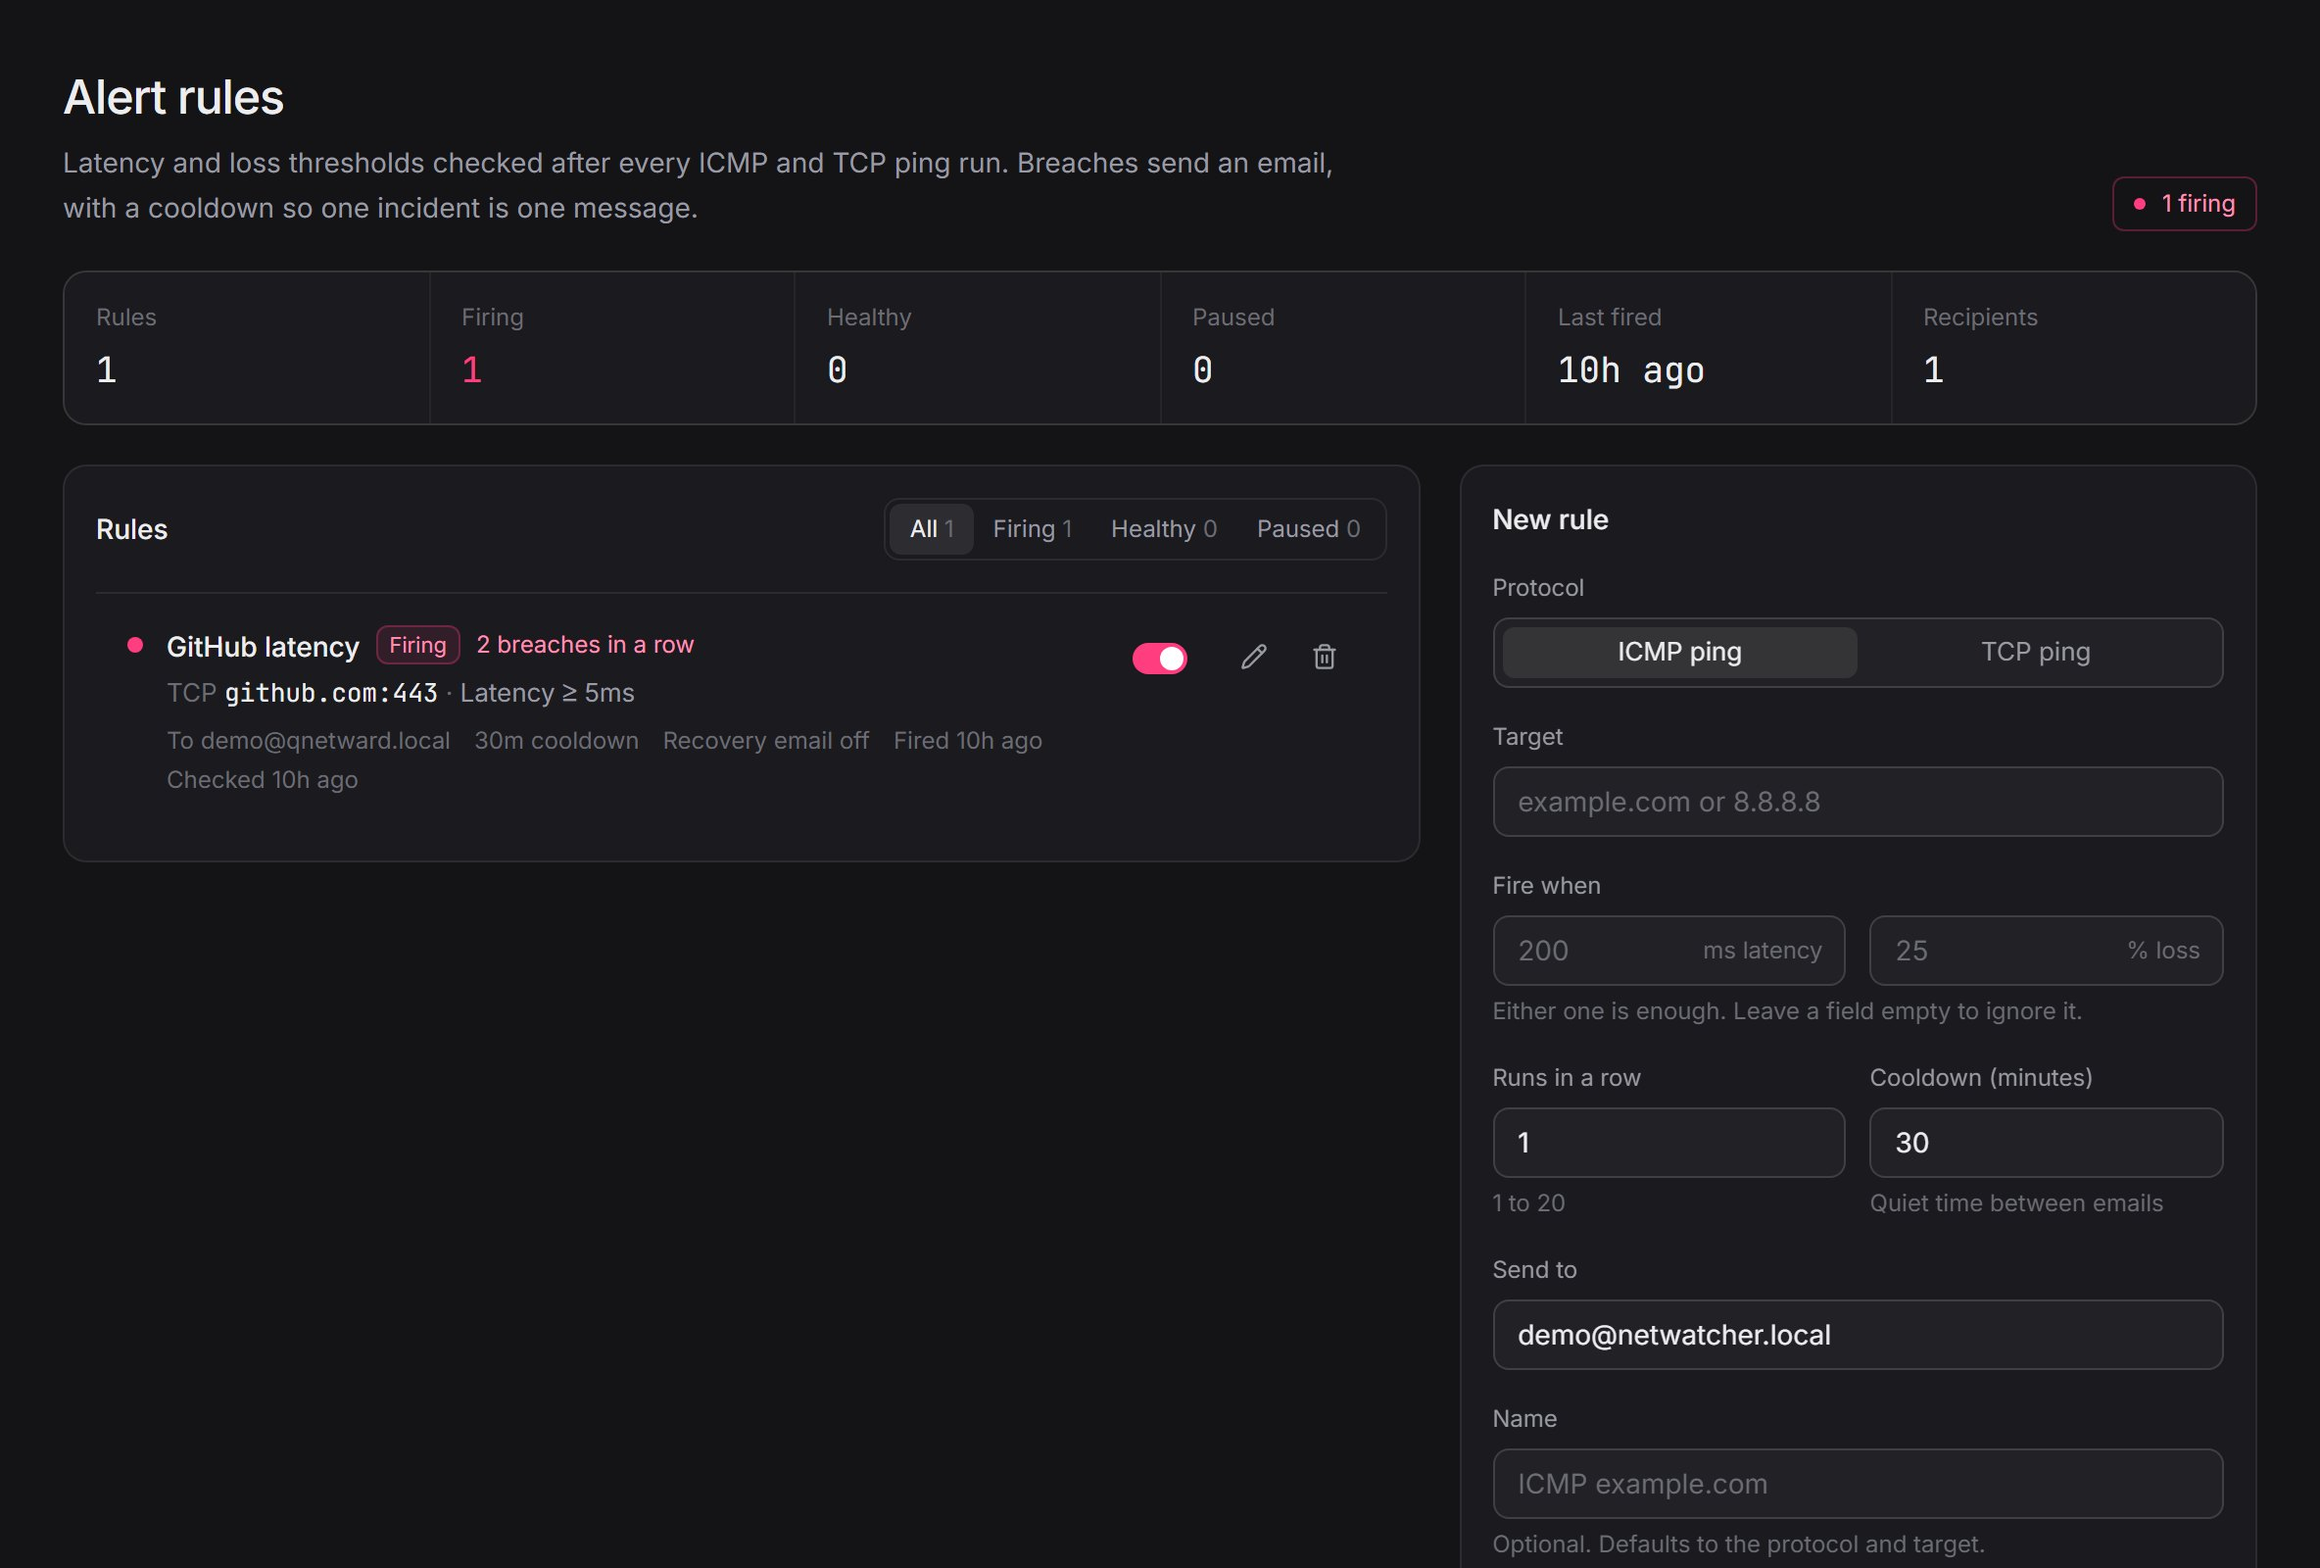
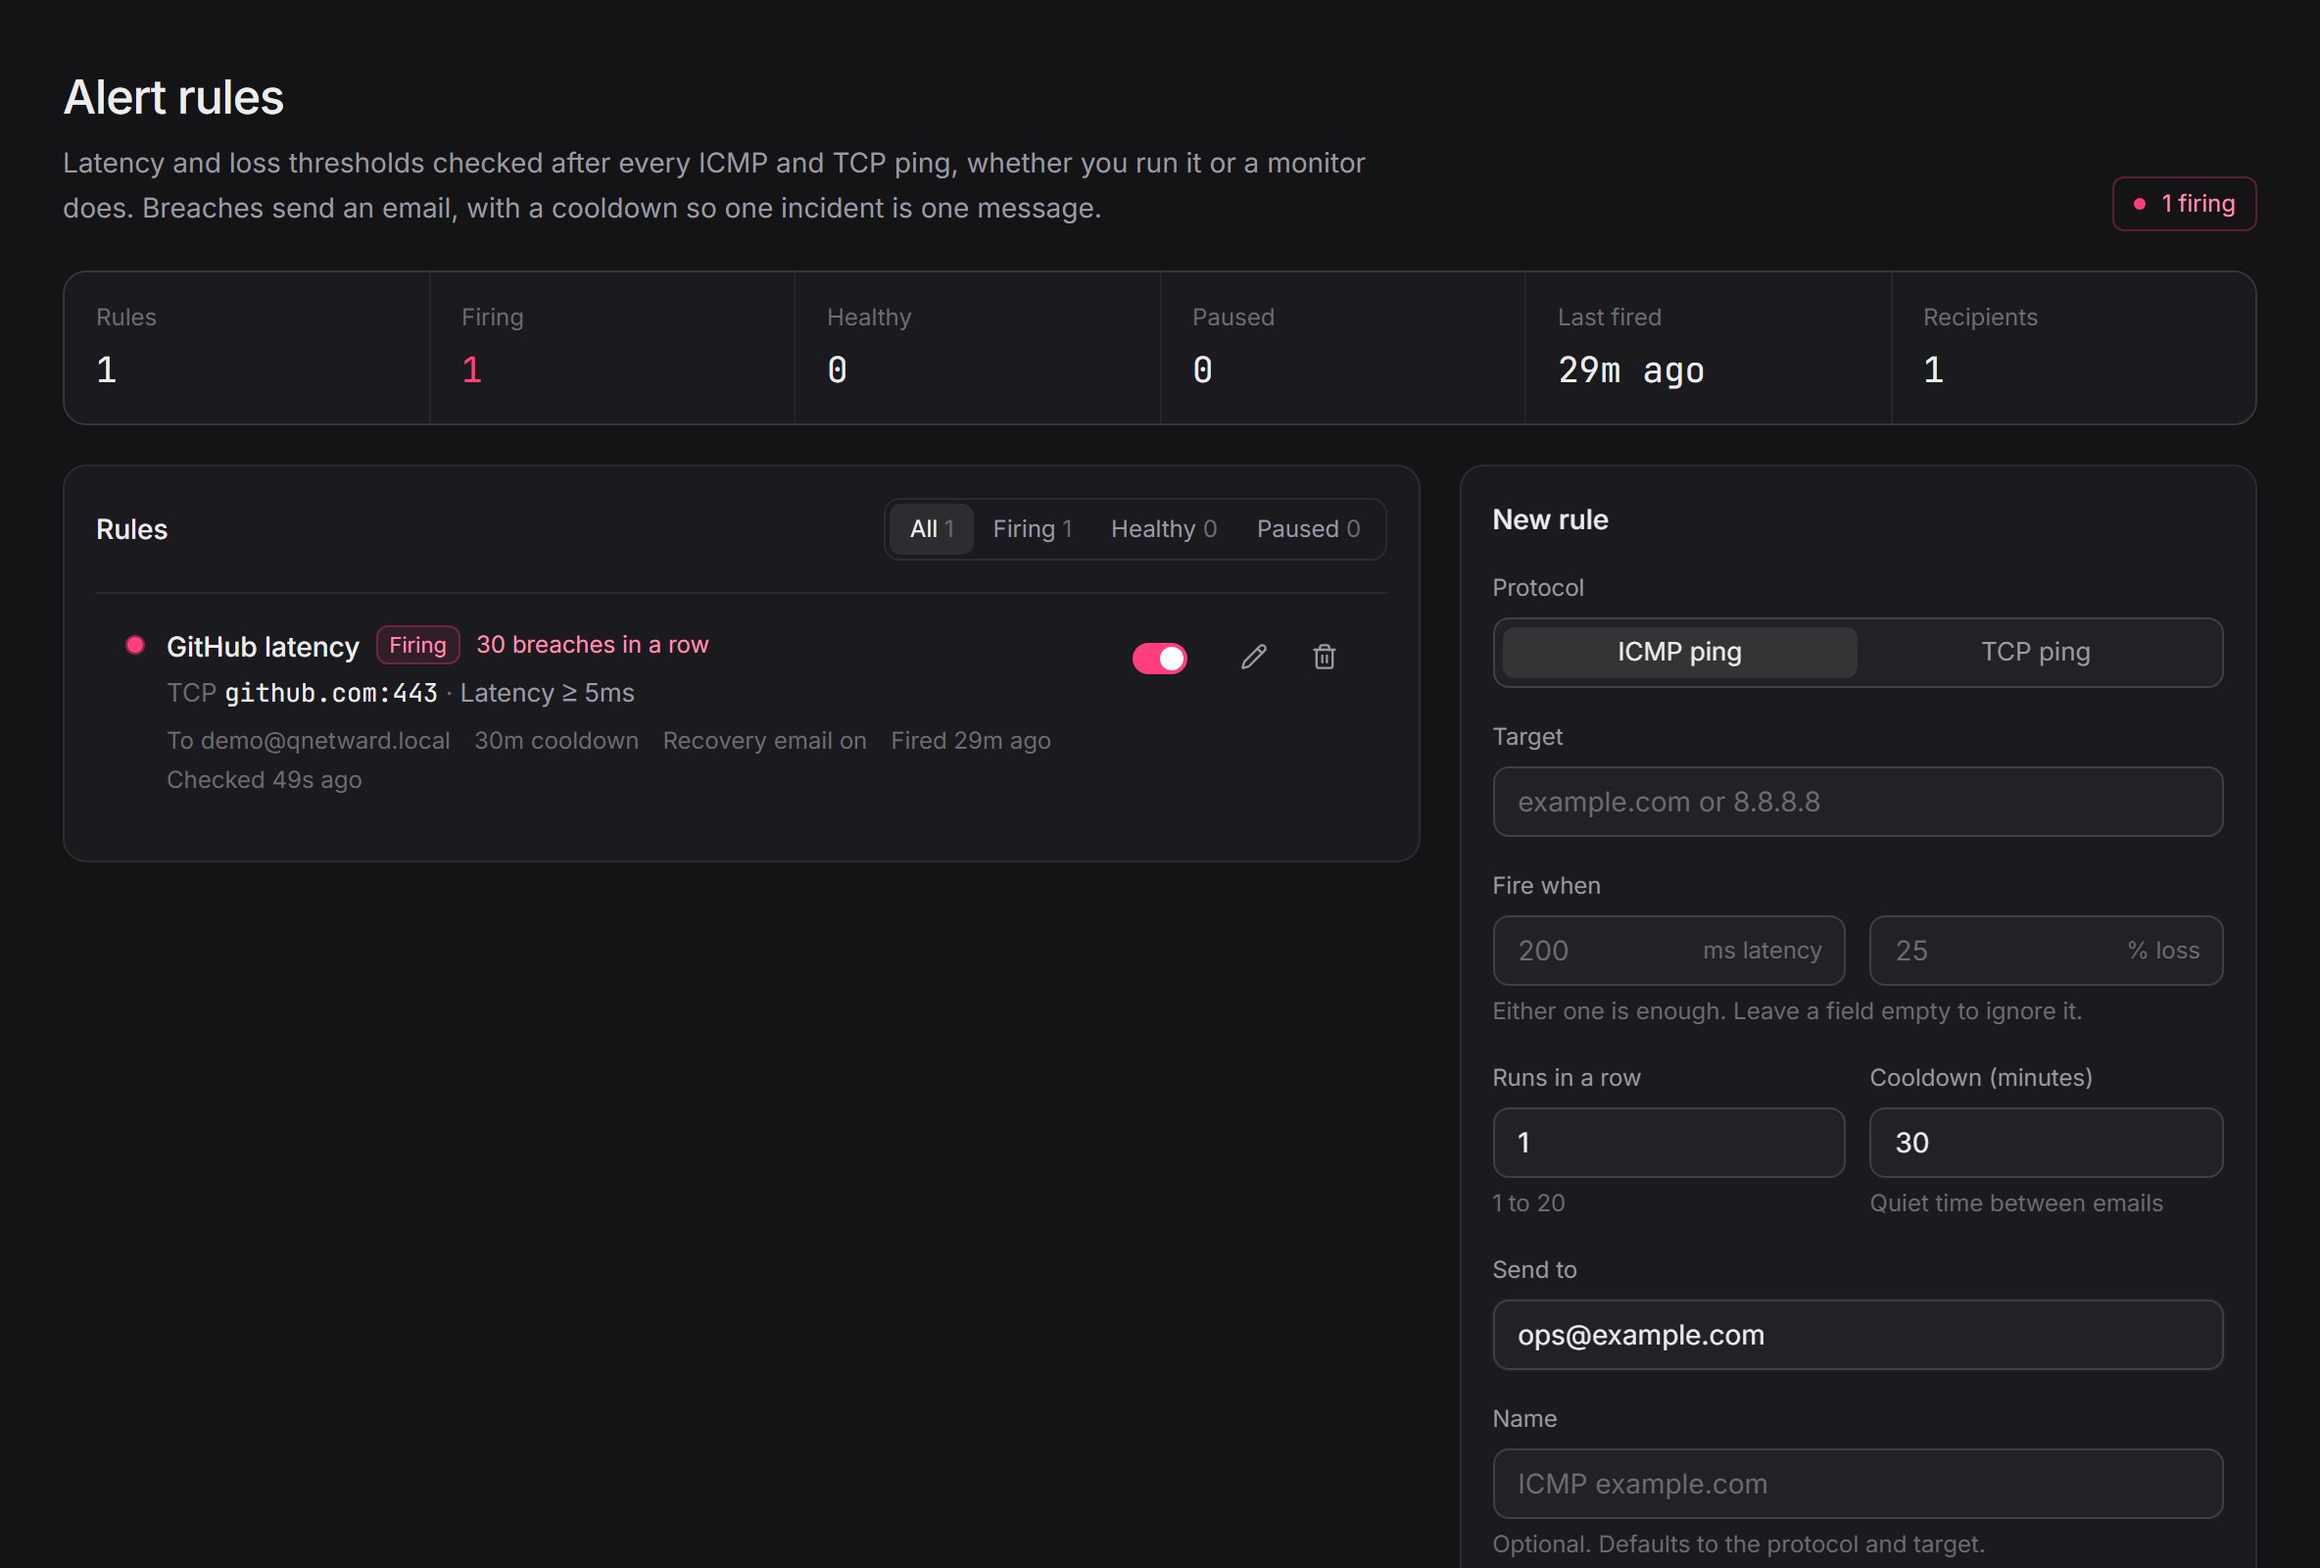
feat(web): bring the landing page up to date with uptime monitors
- announcement bar and hero copy lead with uptime monitors
- Product section gets an Uptime monitors tab with a real console
  screenshot; the Alert rules screenshot is retaken after the recovery
  email fix
- comparison table, third how-it-works step, and the alerting FAQ
  describe monitors and certificate expiry warnings
- alert rules page explains that monitor checks trigger rules too

diff --git a/apps/web/src/features/landing/landing-page.tsx b/apps/web/src/features/landing/landing-page.tsx
@@ -64,9 +64,9 @@ const steps = [
     hint: "tcpping db.internal:5432",
   },
   {
-    title: "Decide what's worth waking up for",
-    body: "Add a latency or loss threshold to any target. When it trips, the people on that workspace get an email.",
-    hint: "loss > 10% for 5 probes",
+    title: "Keep watching what matters",
+    body: "Turn a URL, port, or host into a monitor checked every minute, even with the tab closed. When it goes down, or a certificate is about to expire, you get an email.",
+    hint: "GET https://api.acme.dev/health · every 1m",
   },
 ];
 
@@ -147,8 +147,8 @@ export function LandingPage() {
         <div className="lp-container flex h-10 items-center justify-center gap-3 text-[13px]">
           <span className="lp-badge lp-badge-new">New</span>
           <span className="text-[var(--lp-muted)]">
-            <span className="hidden sm:inline">Team workspaces, invitations, and roles are live</span>
-            <span className="sm:hidden">Team workspaces are live</span>
+            <span className="hidden sm:inline">Uptime monitors for websites, APIs, and servers are live</span>
+            <span className="sm:hidden">Uptime monitors are live</span>
           </span>
           <Link href="/signup" className="text-[var(--lp-text)] underline-offset-4 hover:underline">
             Try it →
@@ -178,7 +178,7 @@ export function LandingPage() {
             <p className="mx-auto mt-5 max-w-3xl text-[18px] leading-relaxed text-[var(--lp-muted)]">
               Qnetward probes, monitors, and protects your infrastructure from one platform.{" "}
               <br className="hidden md:block" />
-              Live diagnostics today, agents, device telemetry, and attack-surface scanning next.
+              Diagnostics and uptime monitors today. Agents and attack-surface scans next.
             </p>
             <div className="mt-7 flex flex-wrap items-center justify-center gap-3">
               <Link href="/signup" className="lp-btn lp-btn-primary h-11 px-6 text-[15px]">

diff --git a/apps/web/src/features/landing/product-showcase.tsx b/apps/web/src/features/landing/product-showcase.tsx
@@ -2,12 +2,13 @@
 
 import Image, { type StaticImageData } from "next/image";
 import { useState } from "react";
-import { Activity, BellRing, Globe, History, Radar } from "lucide-react";
+import { Activity, BellRing, Globe, History, Radar, Radio } from "lucide-react";
 import { cn } from "@/lib/utils";
 import pingShot from "../../../public/landing/tool-ping.jpg";
 import portscanShot from "../../../public/landing/tool-portscan.jpg";
 import dnsShot from "../../../public/landing/tool-dns.jpg";
 import alertsShot from "../../../public/landing/tool-alerts.jpg";
+import monitorsShot from "../../../public/landing/tool-monitors.jpg";
 import historyShot from "../../../public/landing/tool-history.jpg";
 
 type Tool = {
@@ -32,6 +33,15 @@ const tools: Tool[] = [
     alt: "TCP ping to cloudflare.com on port 443, running: 13 of 13 replies, average 122 ms, and a live latency chart.",
   },
   {
+    id: "monitors",
+    name: "Uptime monitors",
+    body: "Websites, APIs, and servers checked every minute to every hour, with the tab closed. The last 30 checks at a glance, and certificate expiry for HTTPS.",
+    path: "monitors",
+    icon: Radio,
+    image: monitorsShot,
+    alt: "Monitors page: five monitors, one down with a 404 and four up, each with a strip of its last checks, 24-hour uptime, and certificate expiry.",
+  },
+  {
     id: "portscan",
     name: "Port scan",
     body: "Up to 4,096 ports per run with 256 parallel connections. A port map, service names, and handshake time for each open port.",
@@ -52,7 +62,7 @@ const tools: Tool[] = [
   {
     id: "alerts",
     name: "Alert rules",
-    body: "Latency and loss thresholds checked after every run. Cooldowns mean one bad minute sends one email, not twenty.",
+    body: "Latency and loss thresholds checked after every ping, yours or a monitor's. Cooldowns mean one bad minute sends one email, not twenty.",
     path: "alerts",
     icon: BellRing,
     image: alertsShot,

diff --git a/apps/web/src/features/alert-rules/alert-rules-workspace.tsx b/apps/web/src/features/alert-rules/alert-rules-workspace.tsx
@@ -505,7 +505,7 @@ export function AlertRulesWorkspace() {
     <div className="grid grid-cols-1 gap-5 [&>*]:min-w-0">
       <PageHeader
         title="Alert rules"
-        description="Latency and loss thresholds checked after every ICMP and TCP ping run. Breaches send an email, with a cooldown so one incident is one message."
+        description="Latency and loss thresholds checked after every ICMP and TCP ping, whether you run it or a monitor does. Breaches send an email, with a cooldown so one incident is one message."
         status={
           rules.length ? (
             <RunStatus tone={counts.firing ? "error" : "live"} label={counts.firing ? `${counts.firing} firing` : "All clear"} />
@@ -577,7 +577,7 @@ export function AlertRulesWorkspace() {
             <div className="mx-4 mb-4 flex flex-col items-center rounded-lg border border-dashed border-[var(--lp-border)] px-6 py-12 text-center">
               <BellRing className="h-5 w-5 text-[var(--lp-subtle)]" />
               <p className="mt-3 text-[13px] text-[var(--lp-muted)]">No alert rules yet</p>
-              <p className="mt-1 max-w-sm text-[12px] text-[var(--lp-subtle)]">Create one on the right. It is checked after every ping or TCP ping run against the same target.</p>
+              <p className="mt-1 max-w-sm text-[12px] text-[var(--lp-subtle)]">Create one on the right. It is checked after every ping or TCP ping against the same target, including scheduled monitor checks.</p>
             </div>
           ) : visibleRules.length === 0 ? (
             <p className="px-4 pb-4 text-[13px] text-[var(--lp-subtle)]">No {filter} rules.</p>

diff --git a/apps/web/src/features/landing/tool-comparison.tsx b/apps/web/src/features/landing/tool-comparison.tsx
@@ -2,7 +2,7 @@ const rows = [
   { before: "ping and mtr in a terminal", after: "Live ICMP and TCP ping with loss streaks and jitter" },
   { before: "nmap on someone's laptop", after: "Port scans saved to history, visible to the team" },
   { before: "dig, nslookup, and a DNS website", after: "DNS inspector with DNSSEC and reverse lookups" },
-  { before: "A separate uptime checker", after: "Alert rules on latency and loss, with history" },
+  { before: "A separate uptime checker", after: "HTTP(S), TCP, and ping monitors with certificate expiry warnings" },
   { before: "A spreadsheet of client sites", after: "One workspace per client, with roles" },
 ];
 

diff --git a/apps/web/src/features/landing/faq.tsx b/apps/web/src/features/landing/faq.tsx
@@ -21,7 +21,7 @@ const items = [
   },
   {
     q: "How do I get alerted?",
-    a: "Set latency and packet-loss thresholds per target and get an email when a rule fires. Slack, Telegram, Discord, and webhooks are next.",
+    a: "Add a monitor and you get an email when it goes down, when it comes back, and two weeks before an HTTPS certificate expires. Alert rules add latency and loss thresholds on top. Slack, Telegram, Discord, and webhooks are next.",
   },
 ];
 
